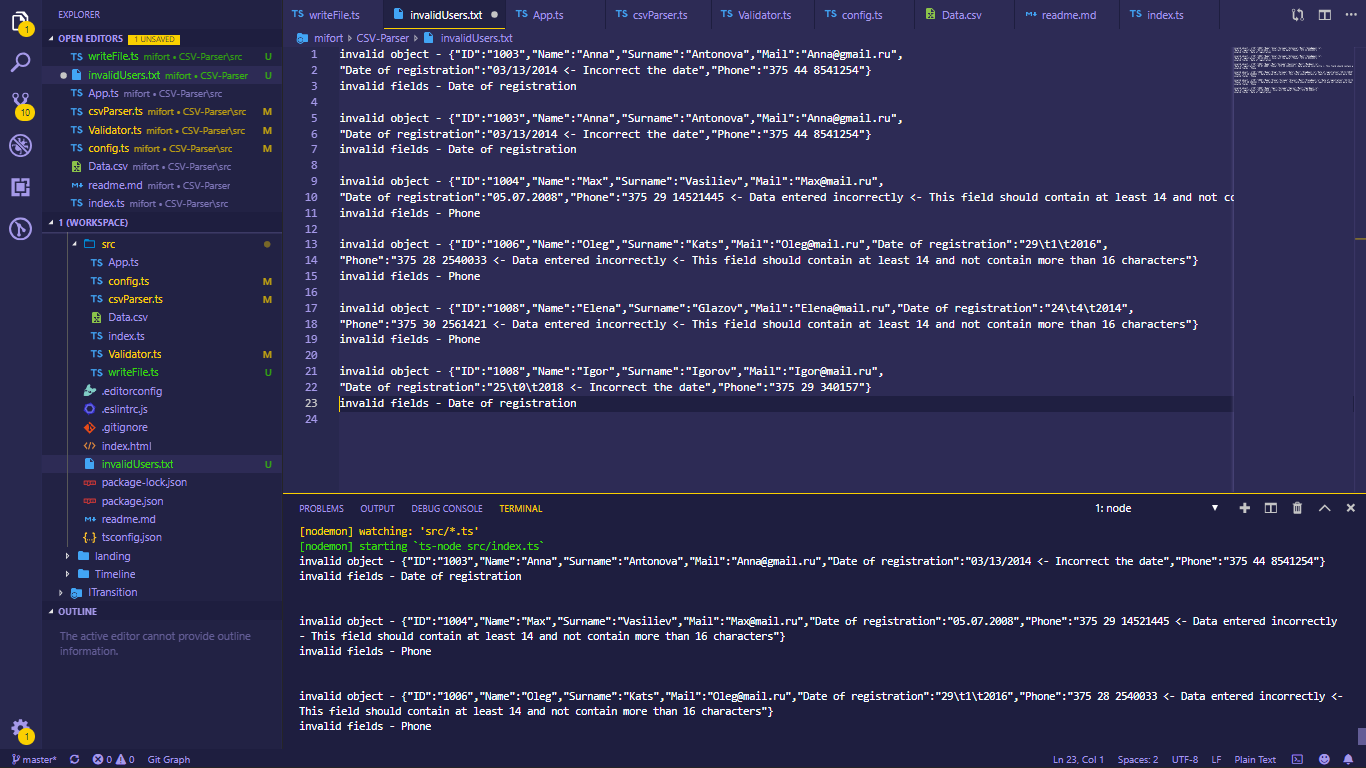
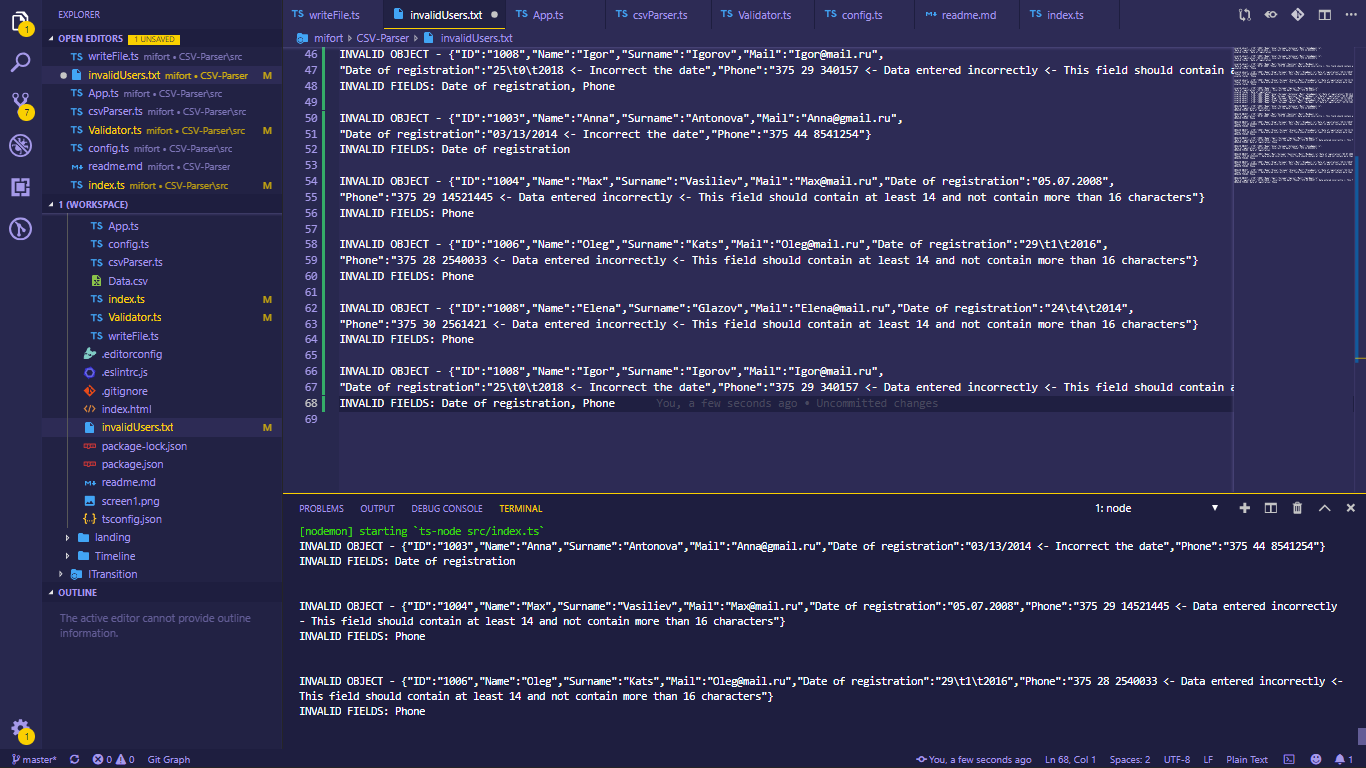
first commit

diff --git a/src/index.ts b/src/index.ts
@@ -1,13 +1,10 @@
 import App from './App'
 import CsvParser from './csvParser'
-import { log } from 'util';
-// import AppView from './AppView'
 
 const port: any = process.env.PORT || 8081
 
 App.listen(port, function(err: any) {
   if (err) console.log("Error");
-  // console.log(`server is listening on ${port}`);
 })
 
 const csvFilePath: string = 'C:/mifort/CSV-Parser/src/Data.csv';
@@ -17,56 +14,4 @@ const parserParameters: object = {
 };
   
 const parser = new CsvParser(csvFilePath);
-// console.log(parser);
-
 const csvObjects = parser.getObjects(parserParameters);
-// console.log(parser.arrObjects);
-
-
-// require ('./config');
-// console.log(csv);
-
-
-// const csv = require('csvtojson')
-// const parserParameters = {
-//   delimiter: ';',
-//   ignoreEmpty: true
-// };
-
-
-// csv(parserParameters)
-// .fromFile(csvFilePath)
-// .then((jsonObj: string)=>{
-//     console.log(jsonObj);
-// })
-
-// AppView.render();
-// class Reader {
-
-  // Here we import the File System module of node
-  // private fs = require('fs');
-
-  // constructor() { }
-
-  // createFile() {
-
-  //     this.fs.writeFile('file.txt', 'I am cool!',  function(err) {
-  //         if (err) {
-  //             return console.error(err);
-  //         }
-  //         console.log("File created!");
-  //     });
-  // }
-
-//   showFile() {
-
-//       this.fs.readFile('./src/config.ts', function (err: any, data: any) {
-//           if (err) {
-//               return console.error(err);
-//           }
-//           console.log("Asynchronous read: " + data.toString());
-//       });
-//   }
-// }
-// let result: any = new Reader;
-// result.showFile();

diff --git a/src/Validator.ts b/src/Validator.ts
@@ -52,8 +52,6 @@ export default class Validator {
 
   
   match(key: string, param: any): string[] {
-    // console.log(param);
-    
     if (this.regExps[key as keyof forregExps].test(param)) return [];
     return ['Data entered incorrectly']
   };
@@ -68,11 +66,11 @@ export default class Validator {
 
   sendObj() {
     if (!this.isCorrect) {
-      console.log(`invalid object - ${JSON.stringify(this.obj)}`);
-      console.log(`invalid fields - ${this.uniqueArr(this.invalidData).join(', ')}`);
+      console.log(`INVALID OBJECT - ${JSON.stringify(this.obj)}`);
+      console.log(`INVALID FIELDS: ${this.uniqueArr(this.invalidData).join(', ')}`);
       console.log('\n');
-      writer.writeFile(`invalid object - ${JSON.stringify(this.obj)}`);
-      writer.writeFile(`invalid fields - ${this.uniqueArr(this.invalidData).join(', ')}`);
+      writer.writeFile(`INVALID OBJECT - ${JSON.stringify(this.obj)}`);
+      writer.writeFile(`INVALID FIELDS: ${this.uniqueArr(this.invalidData).join(', ')}`);
       writer.writeFile('\n');
     }
   }
